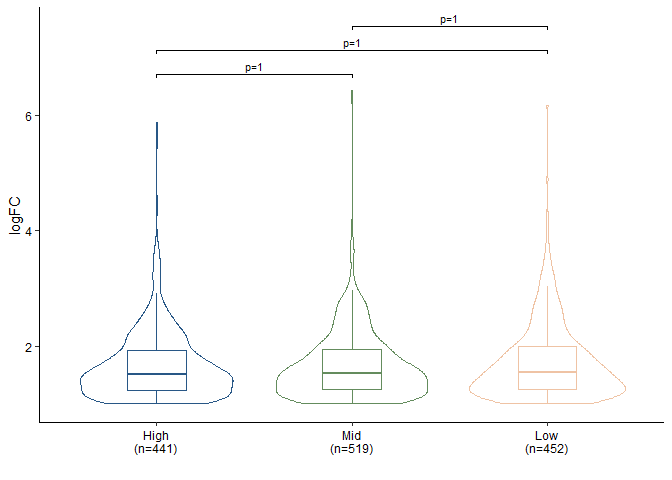
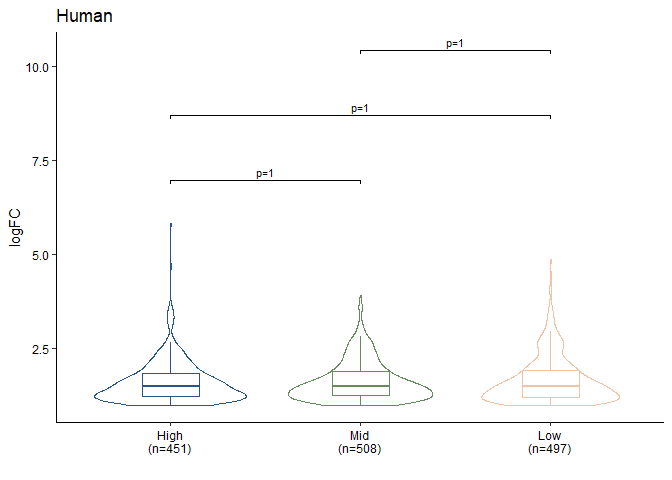
update methods

diff --git a/README.md b/README.md
@@ -211,6 +211,14 @@ rowData(Enone)
 #> Syn2                    FALSE
 ```
 
+You can get specific gene set by `getGeneSet`. Name of the gene set
+provided must be the same as the column names of rowData.
+
+``` r
+getGeneSet(Enone, name = "NegControl")[1:5]
+#> [1] "FBgn0031247" "FBgn0031255" "FBgn0266884" "FBgn0031302" "FBgn0026141"
+```
+
 Normalized counts are stored in `counts` slot in which `sample` slot
 holds the counts from sample and `spike_in` slot for spike-in counts.
 
@@ -370,7 +378,7 @@ pca.nsp.eval <- prcomp(Enone@enone_score[,-c(3, 9)], scale = TRUE)
 ggPCA_Biplot(pca.nsp.eval, performance_score = Enone@enone_score$SCORE)
 ```
 
-<img src="man/figures/README-unnamed-chunk-17-1.png" width="100%" />
+<img src="man/figures/README-unnamed-chunk-18-1.png" width="100%" />
 
 save
 
@@ -397,15 +405,15 @@ after the normalization.
 ``` r
 samples_name <- paste(meta$condition, meta$replicate, sep='.')
 p1 <- ggPCA(log1p(Counts(Enone, slot='sample', 'Raw')), 
-            group = meta$condition,
+            color = meta$condition,
             label = samples_name, vst.norm = FALSE) + ggtitle('Before normalization')
 p2 <- ggPCA(log1p(best.norm.data), 
-            group = meta$condition,
+            color = meta$condition,
             label = samples_name, vst.norm = FALSE) + ggtitle('After normalization')
 p1 + p2
 ```
 
-<img src="man/figures/README-unnamed-chunk-20-1.png" width="100%" />
+<img src="man/figures/README-unnamed-chunk-21-1.png" width="100%" />
 
 ### FindEnrichment
 
@@ -420,7 +428,9 @@ Default criteria for enriched genes is log2-Fold-Change
 ``` r
 Enone <- FindEnrichment(Enone, slot='sample', method = best.norm, 
                         fc.cutoff = 1, p.cutoff = 0.05)
-unlist(lapply(Enone@enrichment_filtered$sample, nrow))
+# get filtered enricment results
+res.best.ls <- getEnrichment(Enone, slot='sample', filter=TRUE)
+unlist(lapply(res.best.ls, nrow))
 #> High.Enrich_High.Input   Mid.Enrich_Mid.Input   Low.Enrich_Low.Input 
 #>                    451                    508                    497
 ```
@@ -441,7 +451,7 @@ The following columns are present in the table:
     applied.
 
 ``` r
-head(Enone@enrichment_filtered$sample$High.Enrich_High.Input)
+head(res.best.ls$High.Enrich_High.Input)
 #>            GeneID    logFC    logCPM       LR        PValue           FDR
 #> 1 ENSG00000244734 2.504240 16.378929 836.4558 6.399167e-184 5.135971e-180
 #> 2 ENSG00000227081 2.497956 12.539401 744.2740 7.054158e-164 2.830833e-160
@@ -454,12 +464,11 @@ head(Enone@enrichment_filtered$sample$High.Enrich_High.Input)
 Reduce list of enrichment and visualize with violin-box plot.
 
 ``` r
-nad.sig.ls <- Enone@enrichment_filtered$sample
-nad_df1 <- reduceRes(nad.sig.ls, fc.col = 'logFC')
+nad_df1 <- reduceRes(res.best.ls, fc.col = 'logFC')
 nad_df1$Group <- gsub('\\..*', '', nad_df1$Group)
 nad_df1$Group <- factor(nad_df1$Group, levels = unique(nad_df1$Group))
 bxp1 <- BetweenStatPlot(nad_df1, x='Group', y='logFC', color='Group', step.increase = 0.6) + ggtitle('Human')
 bxp1
 ```
 
-<img src="man/figures/README-unnamed-chunk-23-1.png" width="100%" />
+<img src="man/figures/README-unnamed-chunk-24-1.png" width="100%" />
